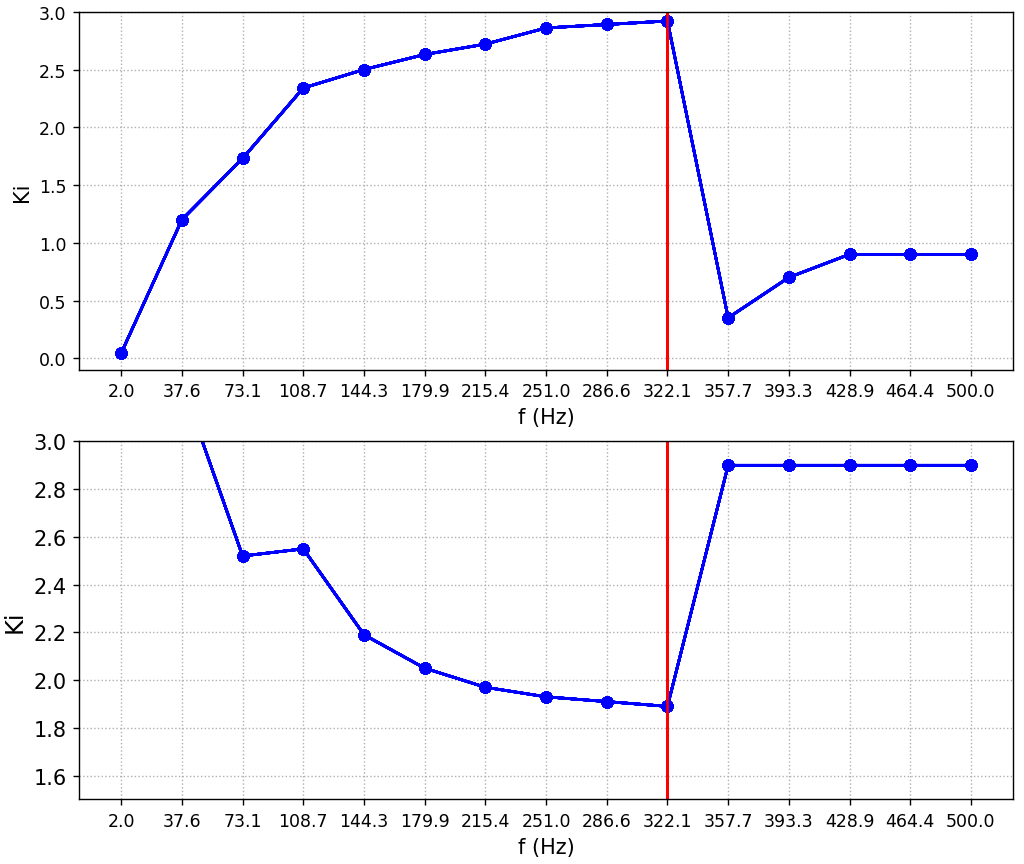
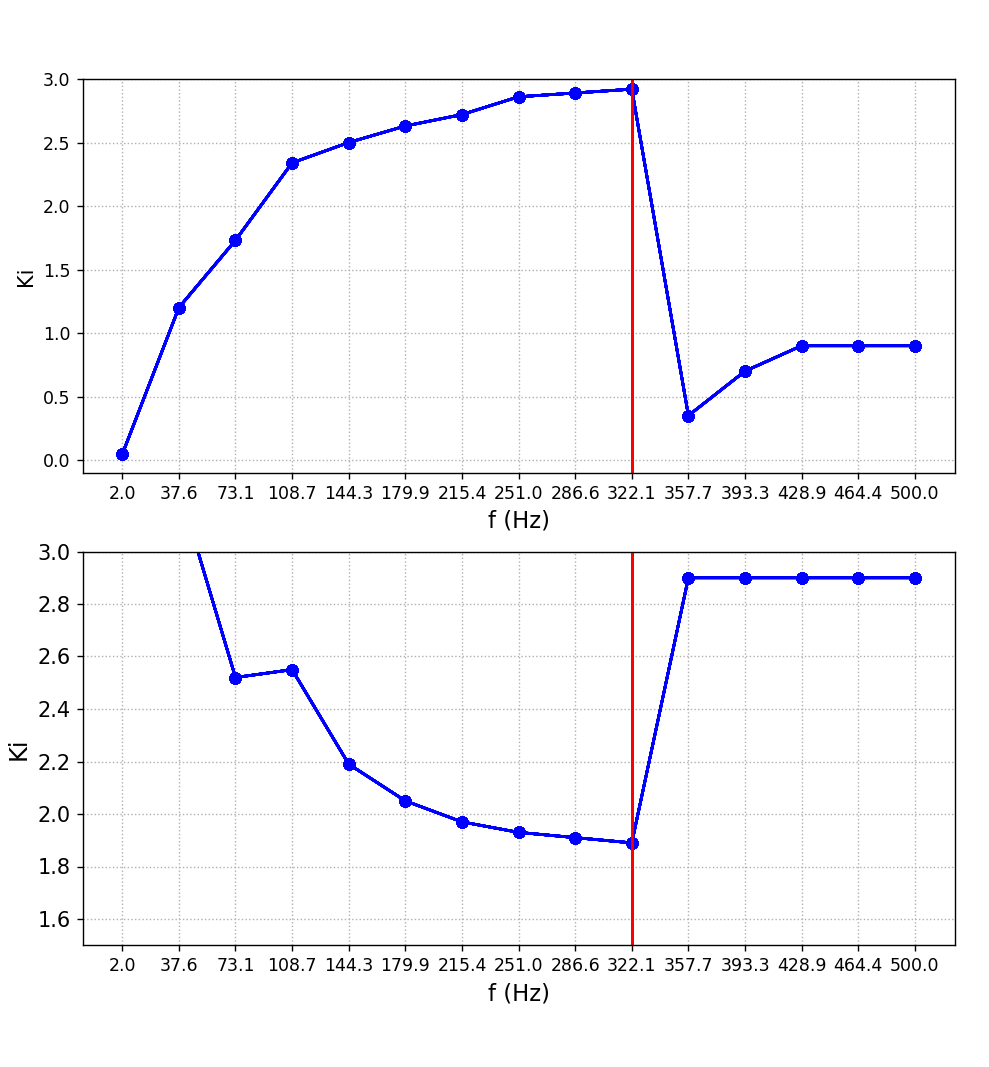
_

Changed region(s): [[0.0, 0.0, 1.0, 1.0], [0.2123, 0.5625, 0.3337, 0.6875]]

diff --git a/Report/Pic/Result_Plot.py b/Report/Pic/Result_Plot.py
@@ -561,7 +561,7 @@ Kd = np.array([1000, 3.243, 2.52, 2.55, 2.19, 2.05, 1.97, 1.93, 1.91, 1.89, 2.9,
 
 
 # Ki变化趋势的分析：
-fig=plt.figure(figsize=[9,4])
+fig=plt.figure(figsize=[9,9])
 for i in range(len(f_test)):
     plt.subplot(2,1,1)
     plt.plot(f_test,Ki,marker="o",color="b")
@@ -570,7 +570,7 @@ for i in range(len(f_test)):
     my_x_ticks = np.array(f_test)
     plt.xticks(my_x_ticks)
     plt.ylabel("Ki",fontsize="12")
-    plt.xlabel("f (Hz)",fontsize="12")
+    plt.xlabel("f (Hz)",fontsize="13")
     plt.grid(linestyle=":")
 
 
@@ -586,7 +586,7 @@ for i in range(len(f_test)):
     plt.xticks(my_x_ticks,fontsize="10")
     plt.yticks(fontsize="12")
     plt.ylabel("Ki",fontsize="14")
-    plt.xlabel("f (Hz)",fontsize="12")
+    plt.xlabel("f (Hz)",fontsize="13")
     plt.grid(linestyle=":")
 plt.show()
 
